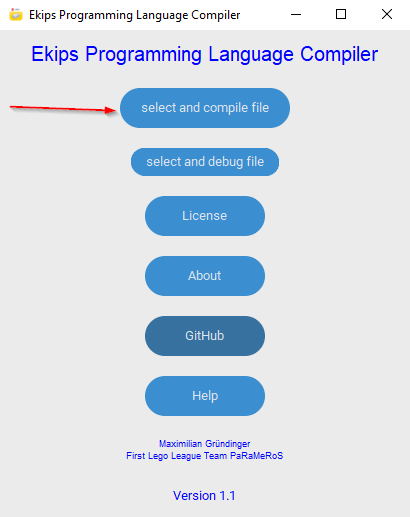
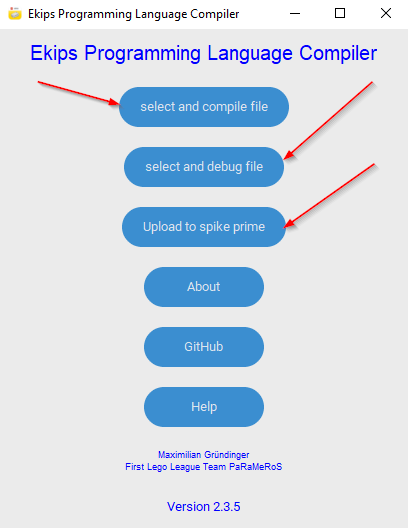
refactor: Improve file upload functionality in compiler_gui.py

diff --git a/README.md b/README.md
@@ -288,11 +288,11 @@ The .llsp3 file you can put in the [Spike Prime Software](https://spike.legoeduc
 
 ![alt text](image-4.png)  ![alt text](image-5.png)
 
-2. if you click on the both buttons that are pointet at you will come to the following menu that will let you chose the file that you want to compile or debug:
+2. if you click on the three buttons that are pointet at you will come to the following menu that will let you chose the file that you want to compile or debug if you chose the Upload button the programm will try to upload the file:
 
 ![alt text](image-6.png)
 
-3. If you have chosen you`re file that will automaticly debug or compile the Programm, like in the cli version if you let it compile you're programm you get an .py file that you can copy in the offical [Spike Prime Software](https://spike.legoeducation.com/) and upload to you're Spike Prime.
+3. If you have chosen you`re file that will automaticly debug or compile the Programm will compile you're programm and you will get an .llsp3 file that you can upload in the offical [Spike Prime Software](https://spike.legoeducation.com/) or open with the Official [desktop app](https://www.microsoft.com/store/productId/9NG9WXQ85LZM?ocid=pdpshare).
 
 ## Robot Recomondations
 
